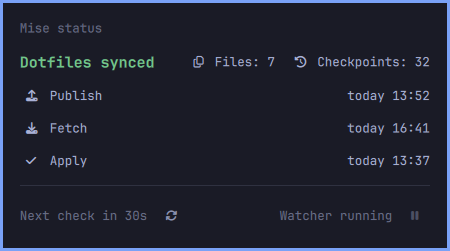
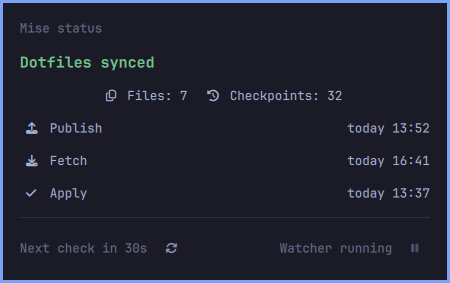
feat: separate counts row and refresh demo screenshots
Add paused-watcher screenshot and MIT license.

diff --git a/tests/tst_content.qml b/tests/tst_content.qml
@@ -90,7 +90,8 @@ TestCase {
     verify(findChild(content, "checksSeparator").y < findChild(content, "checksRow").y)
     var counts = findChild(content, "filesIcon").parent
     var heading = findChild(content, "statusHeading")
-    compare(Math.round(counts.mapToItem(content, 0, counts.height / 2).y), Math.round(heading.mapToItem(content, 0, heading.height / 2).y))
+    verify(counts.mapToItem(content, 0, 0).y >= heading.mapToItem(content, 0, heading.height).y)
+    verify(counts.mapToItem(content, 0, counts.height).y <= publish.y)
     compare(findChild(content, "filesIcon").color, content.foreground)
     var countdown = findChild(content, "countdown")
     var watcher = findChild(content, "watcherLabel")

diff --git a/ui/StatusContent.qml b/ui/StatusContent.qml
@@ -52,7 +52,9 @@ Column {
       font.pixelSize: root.bodySize
       font.bold: true
     }
+  }
     Row {
+      anchors.horizontalCenter: parent.horizontalCenter
       visible: root.counts !== null
       spacing: 8 * root.unit
       Text {
@@ -83,7 +85,6 @@ Column {
         font.pixelSize: root.captionSize
       }
     }
-  }
   Row {
     id: watcherControls
     HoverHandler { id: watcherHover }

diff --git a/README.md b/README.md
@@ -16,7 +16,8 @@ using Omarchy's native panel components rather than a separate tray daemon.
   watcher require attention. Failures take precedence over pending changes.
 
 The popup has a muted title, a status-colored summary, watcher start/stop controls,
-file/checkpoint icons, and publish/fetch/apply rows with right-aligned timestamps.
+file/checkpoint icons on their own centered row, and publish/fetch/apply rows
+with right-aligned timestamps.
 Below a divider, a live `Next check in 30s` countdown leads to the next status poll;
 longer durations use hours/minutes/seconds. The next poll is scheduled 30 seconds
 after a check completes. Opening the popup or clicking its refresh icon checks
@@ -60,9 +61,21 @@ Actual native popup screenshots with staged demo data—not real sync incidents.
 
 ![Red popup showing a sync conflict](screenshots/red-conflict.png)
 
+### Paused watcher
+
+![Popup showing the watcher stopped and its resume icon](screenshots/paused-watcher.png)
+
+Pausing stops the watcher service; the current health policy marks a stopped
+watcher red. This screenshot is a demo, not a change to the live watcher.
+
 See [popup screenshots](screenshots/README.md) for staged green/yellow/red examples
 and [the publishing checklist](docs/PUBLISHING.md) for private testing, public
 distribution and release preparation. The repository is currently private.
+
+## License
+
+The plugin code is licensed under the [MIT License](LICENSE). The bundled mise
+logo retains its upstream ownership; see [asset attribution](assets/README.md).
 
 ## Requirements
 

diff --git a/screenshots/README.md b/screenshots/README.md
@@ -8,13 +8,14 @@ They are not evidence of real pending edits or conflicts on the author's machine
 | [green-synced.png](green-synced.png) | Green: dotfiles synced |
 | [yellow-pending.png](yellow-pending.png) | Yellow: two pending edits |
 | [red-conflict.png](red-conflict.png) | Red: one sync conflict |
-| [states-overview.png](states-overview.png) | Side-by-side social image, labelled as demo states |
+| [paused-watcher.png](paused-watcher.png) | Watcher paused/stopped, with resume icon; red under current health policy |
+| [states-overview.png](states-overview.png) | Four-state social image, labelled as demo states |
 
-![Three demo states](states-overview.png)
+![Four demo states](states-overview.png)
 
 Captured on 8 September 2026, using the user's existing popup width and desktop
-theme. The yellow summary is naturally elided at that width; the explanation
-below it is visible. No UI text was composited over the individual screenshots.
+theme. Files and checkpoints have their own centered row; the yellow summary
+now fits without elision. No UI text was composited over the individual screenshots.
 The overview only adds spacing and demo labels around the original crops.
 
 ## Capture safety

diff --git a/docs/PUBLISHING.md b/docs/PUBLISHING.md
@@ -5,8 +5,7 @@ is a checklist, not authorization to change visibility or publish social posts.
 
 ## Before making it public
 
-- [ ] Choose and add a license for the plugin code. There is currently no LICENSE
-  file; making source public does not automatically grant reuse rights.
+- [x] Add a license for the plugin code: [MIT](../LICENSE), copyright 2026 FilipHarald.
 - [ ] Confirm redistribution/attribution requirements for the bundled mise logo.
   Its source is documented in `assets/README.md`; code licensing and logo rights
   are separate questions.
